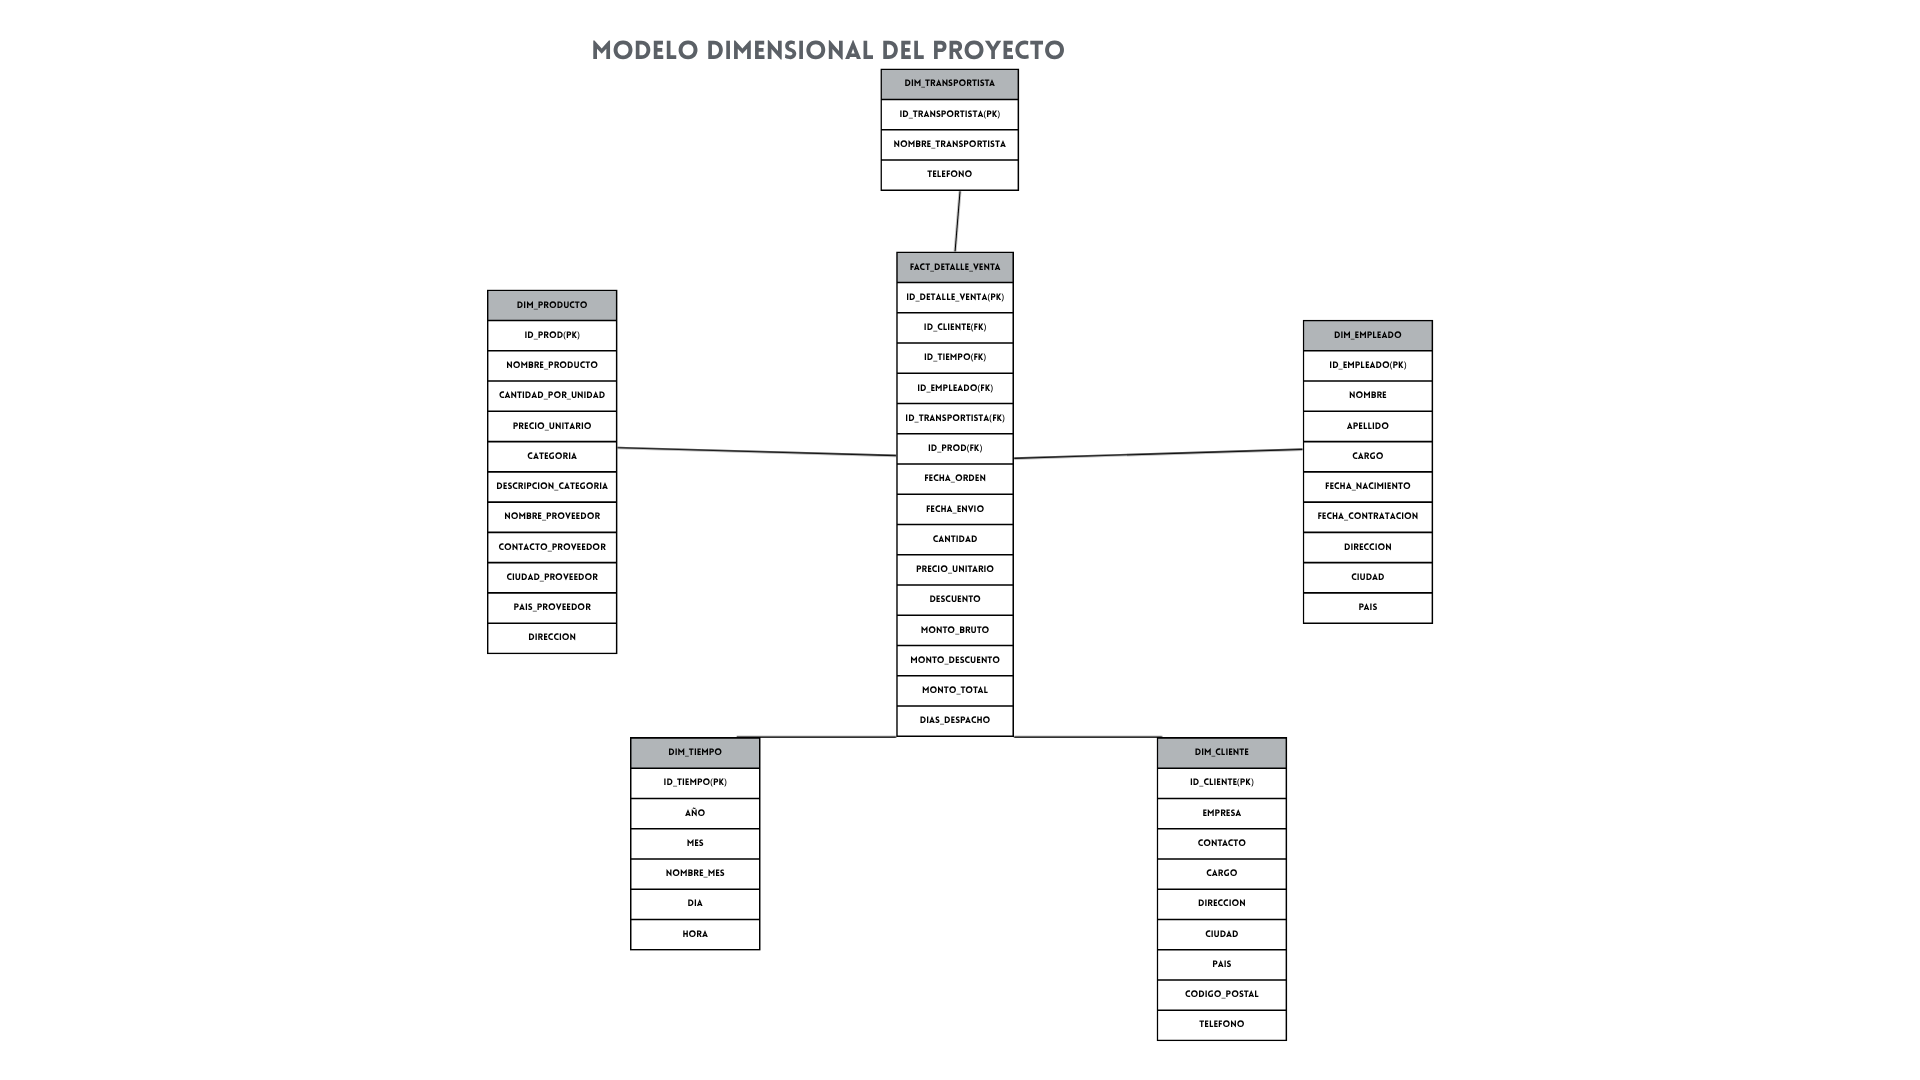
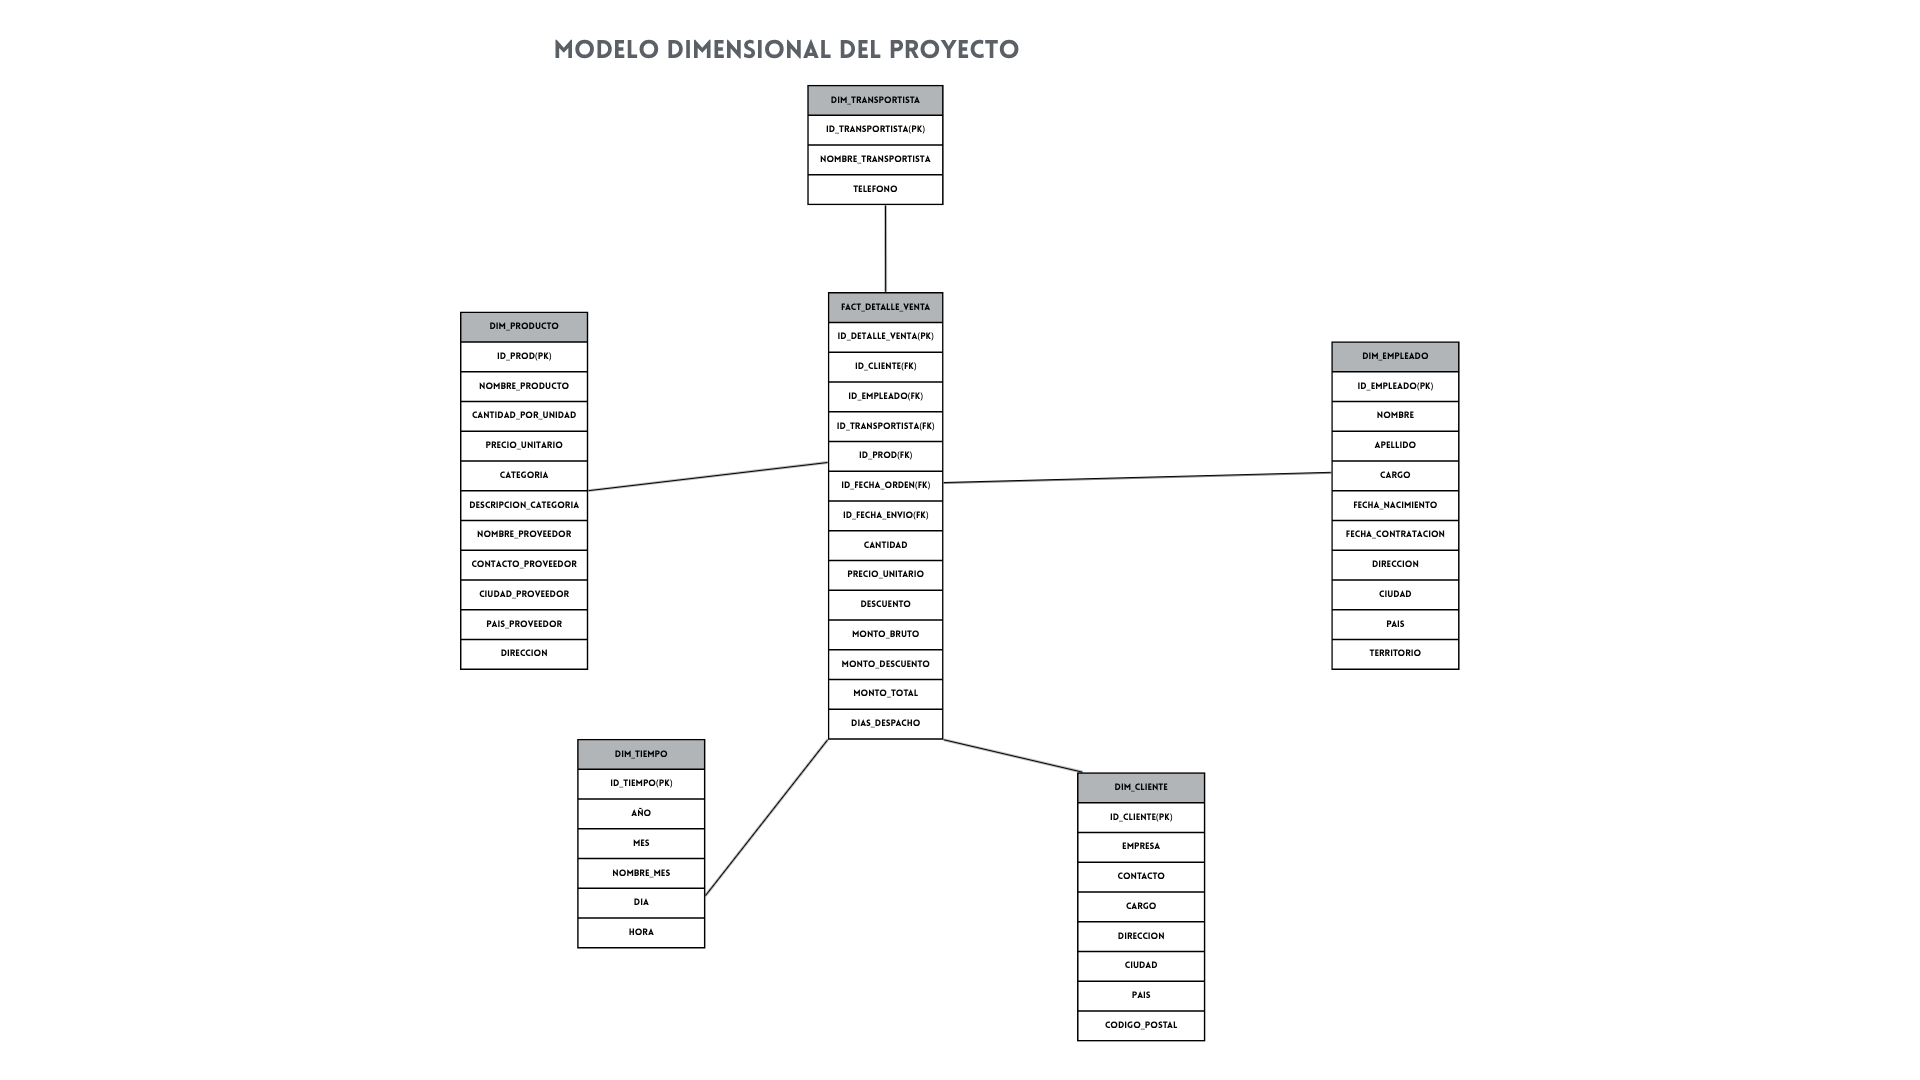
Modificaciones menores en atributos y nueva estructura dimensional

Changed region(s): [[0.2812, 0.0306, 0.6875, 0.9778], [0.2188, 0.2444, 0.3438, 0.6111], [0.6562, 0.275, 0.7812, 0.6111]]

diff --git a/README.md b/README.md
@@ -39,7 +39,7 @@ Para este proceso de negocio, se escogerá el modelo dimensional "**TIPO ESTRELL
 
 - **Medidas**: cantidad, precio_unitario, descuento, monto_bruto(**cantidad x precio_unitario**), monto_descuento(**cantidad x precio_unitario x descuento**), monto_total (**monto_bruto - monto_descuento**), dias_despacho
 
-- **Tabla de hechos**: FACT_DETALLE_VENTA, la cual almacena las claves foráneas de las dimensiones (id_cliente, id_producto, id_empleado, id_tiempo, id_transportista)
+- **Tabla de hechos**: FACT_DETALLE_VENTA, la cual almacena las claves foráneas de las dimensiones (id_cliente, id_producto, id_empleado, id_fecha_orden,id_fecha_envio, id_transportista)
 
 ### Esquema dimensional 
 
@@ -51,7 +51,7 @@ Para este proceso de negocio, se escogerá el modelo dimensional "**TIPO ESTRELL
 - **Ventas Netas Totales**: 
     - **Fórmula analítica:** $\sum \text{MontoNeto} = \sum (\text{Cantidad} \times \text{PrecioUnitario} \times (1 - \text{Descuento}))$. 
 
-    - **Dimensiones de análisis:** Dim_Tiempo (mes, trimestre, año), Dim_Producto (categoría de alimentos), Dim_Cliente (país/ciudad).
+    - **Dimensiones de análisis:** Dim_Tiempo (mes, dia, año), Dim_Producto (categoría de alimentos), Dim_Cliente (país/ciudad).
 
     - **Justificación de negocio:** Es el indicador principal de salud comercial y crecimiento financiero de Kent Foods. Permite monitorear si las metas de ingresos se están cumpliendo a lo largo del tiempo e identificar qué líneas de alimentos traccionan la mayor recaudación.
 
@@ -61,6 +61,20 @@ Para este proceso de negocio, se escogerá el modelo dimensional "**TIPO ESTRELL
     - **Dimensiones de análisis:** Dim_Producto (Categoria, Proveedor).
 
     - **Justificación de negocio:** Detecta qué categorías de alimentos concentran el mayor volumen de negocio y cuáles tienen baja rotación, facilitando decisiones estratégicas de abastecimiento con proveedores y gestión de inventario.
+
+- **Desempeño y Ranking de Mejores Proveedores**
+    
+    - **Fórmula análitica:** $\sum (\text{Cantidad} \times \text{PrecioUnitario} \times (1 - \text{Descuento})) \quad \text{agrupado por } \text{NombreProveedor}$
+
+    - **Dimensiones de análisis:** Dim_Producto (NombreProveedor, PaisProveedor, NombreCategoria).   Dim_Tiempo (Anio, Trimestre, Mes). 
+    
+    - **Justificación de negocio:** Kent Foods comercializa productos alimenticios elaborados por terceros. Medir el rendimiento de cada proveedor permite a la gerencia:   Identificar socios estratégicos clave para negociar mejores acuerdos de compra por volumen o descuentos por pronto pago.Evaluar el riesgo de dependencia frente a un proveedor específico.Detectar proveedores con baja rotación o catálogo de alimentos poco demandado para renegociar contratos o reemplazarlos. 
+
+- **Tiempo Promedio de Entrega y Despacho**
+    
+    - **Formula análitica:** $$\frac{\sum (\text{FechaEnvio} - \text{FechaOrden})}{\text{Cantidad Total de Órdenes Despachadas}}$$
+
+    - **Justificacion del negocio:** Dado que el modelo comercial de la empresa se basa en el envío de alimentos perecibles y no perecibles, la velocidad del despacho es crítica para asegurar la frescura de los productos y la satisfacción del consumidor.
 
 
 
